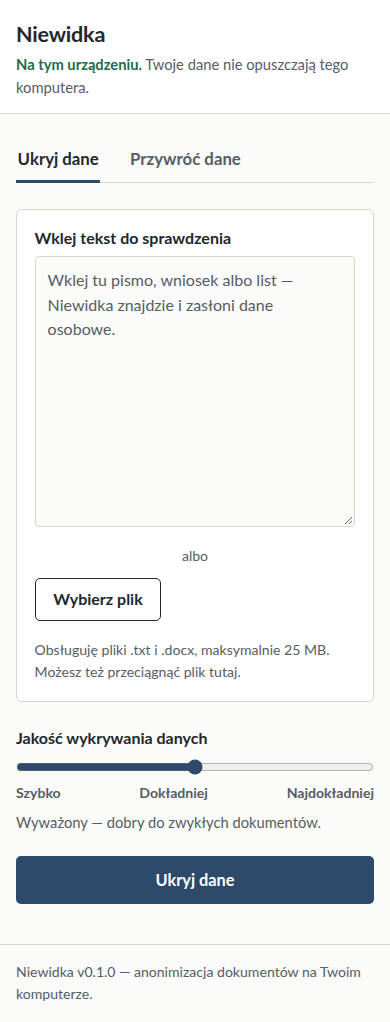
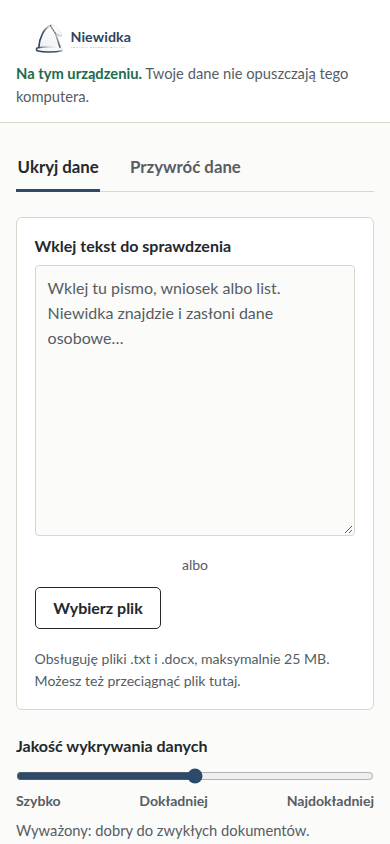
K5b 4+WYNIK: zrzuty E2E odświeżone (start/wynik/jak-to-dziala/mobile), DOCX przez UI przechodzi; raport K5b w WYNIK-K5.md (219 s → 1,72 s, czasy API, znalezisko znaczników); statusy w todo.md (wchodzi też bieżący status sesji K6 — plik współdzielony).

diff --git a/todo.md b/todo.md
@@ -127,8 +127,8 @@
   - [x] TDD: klucze.py — generacja klucza wprost do keyringa (backend testowy), bez nadpisywania istniejącego (commit 882ad4a)
   - [x] TDD: okno.py — port wolny/konfigurowalny, katalog wag obok aplikacji, most klucza, start/stop serwera z oknem (webview mock), ekran konfiguracji klucza przy pierwszym uruchomieniu (commit 882ad4a)
   - [x] narzedzia/zbuduj_windows.ps1: klon, venv, PyInstaller onedir (--windowed), ikona + wersja, wagi + manifest SHA-256 (weryfikacja w skrypcie), ZIP; Inno Setup tylko jeśli iscc jest (commity d3a7bb4, 8734f77: fix cwd/wersja/scipy/bramka pytest z pierwszego biegu)
-  - [~] Budowa na Windows: C:\Users\uzytkownik\niewidka-build z klonu GitHuba, py -3.13, wagi z ~/models/niewidka (bez lfm25) — bieg 2 w toku
-  - [ ] Test na Windows: exe + curl /api/stan + ukryj/przywóć TXT i DOCX przez API + zrzut k6-windows.png + rozmiar/start/RAM; procesy po teście ubite
+  - [~] Budowa na Windows: C:\Users\uzytkownik\niewidka-build z klonu GitHuba, py -3.13, wagi z ~/models/niewidka (bez lfm25) — bieg 5; z prób: kontrola 0600 tylko POSIX (klucze), scipy+bramka pytest w skrypcie, manifest.json kopiowany obok wag, --collect-all webview (nie pywebview), hartowanie okna (MessageBox fallback)
+  - [~] Test na Windows: exe + curl /api/stan + ukryj/przywóć TXT i DOCX przez API + zrzut k6-windows.png + rozmiar/start/RAM; procesy po teście ubite — exe 405 MB (ZIP 273 MB), testy na Windows 366 passed; do zrobienia: pełny E2E + zrzuty
   - [ ] docs/WYNIK-K6-windows.md (kroki dla IT, dowody) + KAMIENIE.md; pytest całości + ruff; commit/push; kopia wyniku do Desktop/C
 - [x] 13:44 (właściciel) [naprawione `7e29ad9`, zweryfikowane 14:00: „ul. Długa 15/3, 00-238 Warszawa” = jeden ADRES; 352 passed] BŁĄD z żywego testu UI: „zamieszkały ul. Długa 15/3, 00-238 Warszawa” maskuje tylko „ul. Długa 15/3”, a „00-238 Warszawa” zostaje jawne — kod+miejscowość to quasi-identyfikator (wyciek). ADRES ma obejmować ciągłą całość: ulica+numer+(opcjonalnie przecinek)+kod NN-NNN+miejscowość (także wieloczłonowa: „Zielona Góra”, „Bielsko-Biała”); sam kod+miejscowość bez ulicy też ADRES
   - [x] 13:49 (właściciel) ZADANIE K4b — naprawa 15 znalezisk audytu bezpieczeństwa Codex/astra #1 (docs/konsultacje/06-przeglad-codex-astra-1.md), każde ODTWORZONE; TDD: najpierw test ataku (pada), potem poprawka; priorytet 1-15 wg zlecenia (zrealizowane 2026-10-28: 15/15 RED→GREEN, `docs/WYNIK-K4b.md`; pełny pytest **408 passed, 1 xfailed** z wagami + ruff czysty; commity `e4ca7d8`…`65a1973` wypchnięte; bonus: znalezione własne losowe blokowanie z hex-id w dopisku — id na literach)
@@ -158,5 +158,15 @@
   - [ ] K7b pakiety modeli + pierwsze uruchomienie + Ustawienia + workflow GitHub Actions (EXE w Releases) + README „Pobierz”/„Zbuduj ze źródeł” (claude-glm, startuje po K6w, K4b, K7a, K5b; /tmp/cc-glm-k7b.md)
     - Decyzja orkiestratora 14:40: DWA pakiety — „Podstawowy” (bardsai Q4 bl32, ~191 MB, wymagany) + „Rozszerzony” (LFM2.5 Q4, ~222 MB, tylko IP/karta/SWIFT/login na poziomie 3); INT8 odpada (Q4 nie gorszy)
   - [ ] Wydanie publiczne EXE dopiero po przeglądzie właściciela (repo prywatne, decyzja 2c)
+- [x] 15:19 (właściciel) ZADANIE K5b — 0. NAJPIERW (blokujące): DOCX przekracza timeout 120 s, bo kontrola.py:_skan_surowy puszcza detektor z modelem ONNX na każdej części XML (docs/WYNIK-K5.md); skan surowy ma używać WYŁĄCZNIE reguł + listy oryginałów z mapy (model tylko na treści czytanej adapterem); TDD: test „ukrycie wzorcowego DOCX na poziomie 3 trwa < 10 s”; czasy przed/po do docs/WYNIK-K5.md; testy K3b/K4b nadal zielone. 1. Teksty interfejsu wg tabeli „Część 1” (argon-2026-10-28.md, także nowy dopisek w formatach + testy). 2. Sekcja „Jak to działa” (Część 2): rozwijana <details> pod formularzem, lista wykrywanych danych z jednego źródła (ETYKIETY w apka.js), „Ważne zastrzeżenie”, szczegóły techniczne jako zagnieżdżona rozwijana część; granat #2c4560, tło #f8f7f4. 3. Zakaz półpauz i pauz (– —) w tekstach UI: test w tests/test_web.py pada, gdy index.html/apka.js/dopisek formatów je zawierają. 4. Odświeżenie zrzutów E2E docs/zrzuty/k5-*.png (start, wynik, jak-to-dziala, mobile) przez istniejący test E2E. 5. LOGO (wariant B): docs/logo/logo-agy4-2.svg w nagłówku (tekst alternatywny, rozmiar do nagłówka), logo-agy4-2-favicon.svg jako favicon (SVG + PNG 32/180 apple-touch), użyte pliki do niewidka/web/, czytelność w 32 px, niewidka/web/ikona.ico (16/32/48/256) dla budowy Windows, sprzątnięcie docs/logo/ (zostają logo-agy4-2*.svg/png + README.md: wybór B, data, autor Gemini agy4). 6. pytest całości (NIEWIDKA_MODELE_KATALOG=~/models/niewidka) + ruff; commit (Co-Authored-By: GLM via claude-glm), add konkretnych ścieżek, pull --rebase, push; bez Dockera, bez codex.
+  - [x] 0a. RED: test wydajnościowy (ukrycie wzorcowego DOCX, poziom 3, < 10 s, marker model) — padł po 224,73 s na statusie zablokowany
+  - [x] 0b. Pomiar PRZED: 219,25 s (zablokowany, 11 fałszywych ostrzeżeń) → docs/WYNIK-K5.md
+  - [x] 0c. GREEN: skan surowy na regułach; PO 1,72 s (API 0,52/0,68/2,38 s); bonus E2E: znaczniki wyjęte ze skanu kontroli (bardsai odpalał na nich OSOBA i blokował wyniki); K3b/K4b zielone; commit `8516cfc`
+  - [x] 1. Teksty „Część 1” wdrożone + nowy DOPISEK + testy dopisku (commit `c3b8b45`)
+  - [x] 2. Sekcja „Jak to działa” w index.html/apka.js/styl.css; lista z ETYKIETY (TYPY_WYKRYWANE); zagnieżdżone szczegóły techniczne
+  - [x] 3. test_bez_polpauz_i_pauz_w_tekstach (RED potwierdzony, potem 0 znaków w plikach)
+  - [x] 4. Zrzuty: k5-desktop-start/wynik, k5-jak-to-dziala (nowy), k5-mobile-start/wynik; DOCX przez UI przechodzi; kopie w Desktop/C
+  - [x] 5. logo.svg w h1 (134x42, alt), favicon.svg + favicon-32.png + apple-touch 180, ikona.ico 16/32/48/256 (pełny kontur), docs/logo sprzątnięte + README.md
+  - [x] 6. Pełny pytest 420 passed/1 xfailed (z wagami) + ruff czysty (własne pliki; 1 błąd w cudzym test_okno.py sesji K6 nie ruszany); push
 - [x] 15:20 (orkiestrator) odbiór K4b: 15/15 znalezisk Codexa naprawionych z testem ataku (`docs/WYNIK-K4b.md`, `17d3fcb`); pełny pytest u orkiestratora 408 passed / 1 xfailed. K5b (claude-glm 2409) wystartował.
 

diff --git a/docs/WYNIK-K5.md b/docs/WYNIK-K5.md
@@ -123,3 +123,89 @@ NIEWIDKA_MODELE_KATALOG=~/models/niewidka .venv/bin/python -m pytest tests/ -q
   `Desktop/C/`, decyzja tak/nie należy do właściciela;
 - 🔴 do zgłoszenia sesji rdzenia (K3b/K4): surowa kontrola zapisu spowalnia DOCX ponad
   timeout 120 s (500 fail-closed) — znalezione E2E K5, szczegóły wyżej.
+
+---
+
+# K5b — 2026-10-28 (naprawa timeoutu DOCX, teksty Argona, „Jak to działa”, logo)
+
+Zlecenie 15:19. Punkty 0-5 zlecenia; TDD tam, gdzie kod rdzenia; bez Dockera, bez codex.
+
+## 0. DOCX przekraczał timeout 120 s — NAPRAWIONE
+
+Przyczyna (potwierdzona pomiarem): `kontrola.py:_skan_surowy` puszczał detektor
+z modelem ONNX na każdą część XML archiwum — setki inferencji na surowym DOCX.
+
+| pomiar (wzorzec generatora, poziom 3) | czas | status |
+|---|---|---|
+| PRZED (model na surowym XML) | **219,25 s** | zablokowany, 11 ostrzeżeń (fałszywe, z metadanych XML) |
+| PO (skan surowy: wyłącznie reguły + oryginały z mapy) | **1,72 s** | ukonczony, 0 ostrzeżeń |
+| PO przez API `/api/ukryj` (DOCX, poziomy 1/2/3) | 0,52 / 0,68 / 2,38 s | 200, round-trip przywrócenia 200 |
+
+TDD: `tests/test_kontrola.py::TestWydajnoscKontroli` (ukrycie wzorcowego DOCX na
+poziomie 3 trwa < 10 s, marker `model`; RED: 224,73 s, status zablokowany) oraz
+`TestSkanSurowyReguly` (skan surowy stosuje reguły nawet z detektorem bez reguł).
+Model uruchamia się odtąd wyłącznie na treści czytanej adapterem; siatka kontroli
+bez zmian (reguły na surowych częściach + oryginały z mapy; testy K3b/K4b zielone).
+
+## Znalezione przy okazji (E2E): model odpalał OSOBA na tekście znacznika
+
+Po naprawie timeoutu DOCX przeszedł, ale zwykły tekst (wniosek z Janem Kowalskim)
+był blokowany na każdym poziomie: bardsai klasyfikował `[OSOBA_1_F1]`, `[PESEL_1]`
+(nawet fragmenty typu `PESEL_1]`) jako osobę w wyniku, a kontrola nie wykluczała
+znaczników — obietnica „znaleziska niebędące znacznikami” z LLD §10 nigdy nie była
+w kodzie (reguły na znacznikach nie odpalały, więc błąd spał do czasu modelu
+w kontroli). Naprawa (TDD, `TestKontrolaZnaczniki`): kontrola wyjmuje znaczniki
+`WZORZEC_ZNACZNIKA` ze skanowanej treści (spacja za znak, offsety bez zmian) —
+w znaczniku nie ma oryginału, prawdziwe wycieki blokują dalej (test z wyciekiem
+`79020853217` obok znaczników). Stabilność: 4 biegi × poziomy 1/2/3, zawsze
+`ukonczony`, 0 ostrzeżeń. Bezpieczeństwo kontroli bez osłabienia: surowy skan
+regułowy, oryginały z mapy i fail-closed bez zmian.
+
+## 1-3. Teksty Argona (Część 1), sekcja „Jak to działa” (Część 2), zakaz półpauz
+
+- Tabela „Część 1” wdrożona w `apka.js` i `index.html` (m.in. „Gotowe: dokument
+  z ukrytymi danymi”, „Ukryte dane”, STOP: „Wynik zatrzymany przez kontrolę
+  jakości…”, ryzyka „małe do umiarkowanego: …”); nowy dopisek w `znaczniki.DOPISEK`
+  („ZANONIMIZOWANY. Dane osobowe zastąpiono znacznikami (Niewidka). Oryginalne dane
+  przywrócisz plikiem mapy.”) z podniesionymi asercjami testów (test_rdzen/test_api:
+  „ZANONIMIZOWANY not in” zamiast „ZANONIMIZOWANO not in”, które nowemu dopiskowi
+  nie patrzało na ręce).
+- Sekcja „Jak to działa”: `<details>` pod formularzem zakładki Ukryj; W skrócie,
+  wyróżniona lista wykrywanych danych (nazwy typów z `ETYKIETY` w `apka.js` — jedno
+  źródło z wynikiem, opisy i przykłady w `TYPY_WYKRYWANE`), „Ważne zastrzeżenie”
+  w wyróżnionym bloku, „Szczegóły techniczne” jako zagnieżdżony `<details>`; styl:
+  granat `#2C4560`, tło `#F8F7F4`, reszta palety projektu bez zmian.
+- Zakaz – —: `tests/test_web.py::test_bez_polpauz_i_pauz_w_tekstach` pada przy
+  choć jednym znaku w index.html, apka.js albo dopisku (RED potwierdzony, potem
+  sprzątnięte wszystkie wystąpienia, także w komentarzach apka.js).
+
+## 4. Zrzuty E2E odświeżone (żywy serwer 127.0.0.1:8393, wagi z magazynu, klucz z CLI)
+
+Przepływy Playwright: tekst wklejony poziom 2 (zaślepki, kontrola zaliczona),
+DOCX wzorcowy przez UI (poprzednio defekt K5 — teraz przechodzi), mobilne 390.
+Pliki: `docs/zrzuty/k5-desktop-start.png`, `k5-desktop-wynik.png`,
+`k5-jak-to-dziala.png` (nowy), `k5-mobile-start.png`, `k5-mobile-wynik.png`;
+kopie w `Desktop/C/Niewidka - k5-*.png`. Ocena percepcyjna → właściciel (tak/nie).
+
+## 5. Logo (wariant B właściciela)
+
+- `web/logo.svg` = wybrany `docs/logo/logo-agy4-2.svg` bez tła (`rect`), wpięty
+  w `<h1>` (alt „Niewidka”, 134x42); favicon: `favicon.svg` (kopia
+  `logo-agy4-2-favicon.svg`) + `favicon-32.png` (czytelność 32 px sprawdzona na
+  rastrze) + `apple-touch-icon.png` 180 px (rasteryzacja `rsvg-convert`).
+- `web/ikona.ico` (16/32/48/256, wpisy PNG) — ten sam znak z **pełnym konturem**
+  (bez zanikającego gradientu: w 16-32 px wychodził zbyt blado); używa jej
+  `zbuduj_windows.ps1` (fallback na `narzedzia/ikona.py`, gdyby pliku zabrakło).
+- `docs/logo/`: usunięte szkice odrzucone i skrypty agentów; zostały
+  `logo-agy4-2*.svg/png` + `README.md` (wybór B, data, autor Gemini agy4, mapa
+  plików i przepis przebudowy ikony).
+
+## Weryfikacja całości
+
+```
+NIEWIDKA_MODELE_KATALOG=~/models/niewidka .venv/bin/python -m pytest tests/ -q
+→ 420 passed, 1 xfailed in 73.21s   (przed K5b: 408 passed / 1 xfailed)
+.venv/bin/python -m ruff check niewidka/ tests/ narzedzia/  → All checks passed!
+```
+
+Procesy po teście ubite (serwer E2E zatrzymany, przeglądarka zamknięta).
